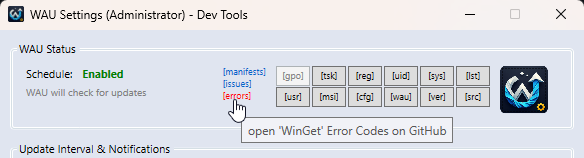
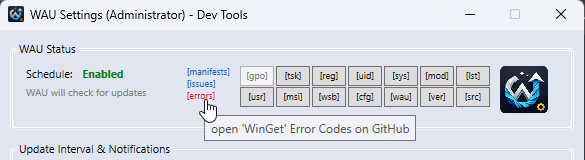
Documentation/Screenshots

diff --git a/README.md b/README.md
@@ -36,9 +36,12 @@ Benefits from not having to manage the settings in several places when testing e
   - `[reg]` Open **WAU settings path** in registry
   - `[uid]` **GUID** path exploration (regarding **WAU MSI** installation)
   - `[sys]` Open **WinGet** system wide installed application list (if previously saved by **WAU**)
+  - `[mod]` Open the external **WAU** mods folder
   - `[lst]` Open the **current local list**
   - `[usr]` **Change colors/update schedule** for **WAU Settings GUI**
   - `[msi]` **MSI** transform creation (using current showing configuration)
+  - `[wsb]` **Windows Sandbox (WSB)** installation/test of **WAU** installation
+    - A standalone **SandboxTest** shortcut for running advanced tests is created in **User Start Menu**
   - `[cfg]` **Configuration** backup/import (i.e. for sharing settings)
   - `[wau]` Reinstall **WAU** (with current showing configuration)
     - Stores source in `[INSTALLDIR]\msi\[VERSION]` (enables **WAU** `Repair` in **Programs and Features**)
@@ -94,6 +97,15 @@ This will install a **Portable WinGet Package** (with `PortableCommandAlias`: **
 - The built-in updater is absolutely the preferred option, making a backup of your current installed version first and taking care of locked/open files
   - A repair is automatically performed if files are corrupted/missing when starting
 
+### SandboxTest
+- **Microsoft** have developed a script for prepping, starting and running/validate local manifests in a **Windows Sandbox (WSB)** environment 
+- Now incorporated in **WAU Settings GUI** for testing the installation of **WAU** (with generated transform)
+- A **SandboxTest** shortcut is also created in the user **Start Menu** for more advanced testing, including recognition of files in the selected folder
+- 3 predefined scripts are included:
+    - **InstallWSB**: detects if the chosen folder contains files created from `[msi]`
+    - **WinGetManifest**: detects if the chosen folder contains **WinGet** manifests
+    - **Explorer**: a general script opening the selected mapped folder in **WSB**
+
 ### Uninstallation
 - Use **[Programs and Features](#uninstallation-1)** in **Control Panel** to uninstall **KnifMelti WAU Settings GUI**
 - Uninstall can be done from `CMD` too (`/UNINSTALL` or silent `/UNINSTALL /S` parameter) using `UnInst.exe` in the **WAU Settings GUI** `[INSTALLDIR]`:
@@ -119,6 +131,8 @@ This will install a **Portable WinGet Package** (with `PortableCommandAlias`: **
 ![image](Sources/assets/Screenshot_F12.png)
 #### Managed by GPO (central/local)
 ![image](Sources/assets/Screenshot_GPO.png)
+#### SandboxTest
+![image](Sources/assets/SandboxTest.png)
 #### Uninstallation
 ![image](Sources/assets/Screenshot_Uninstall.png)
 
